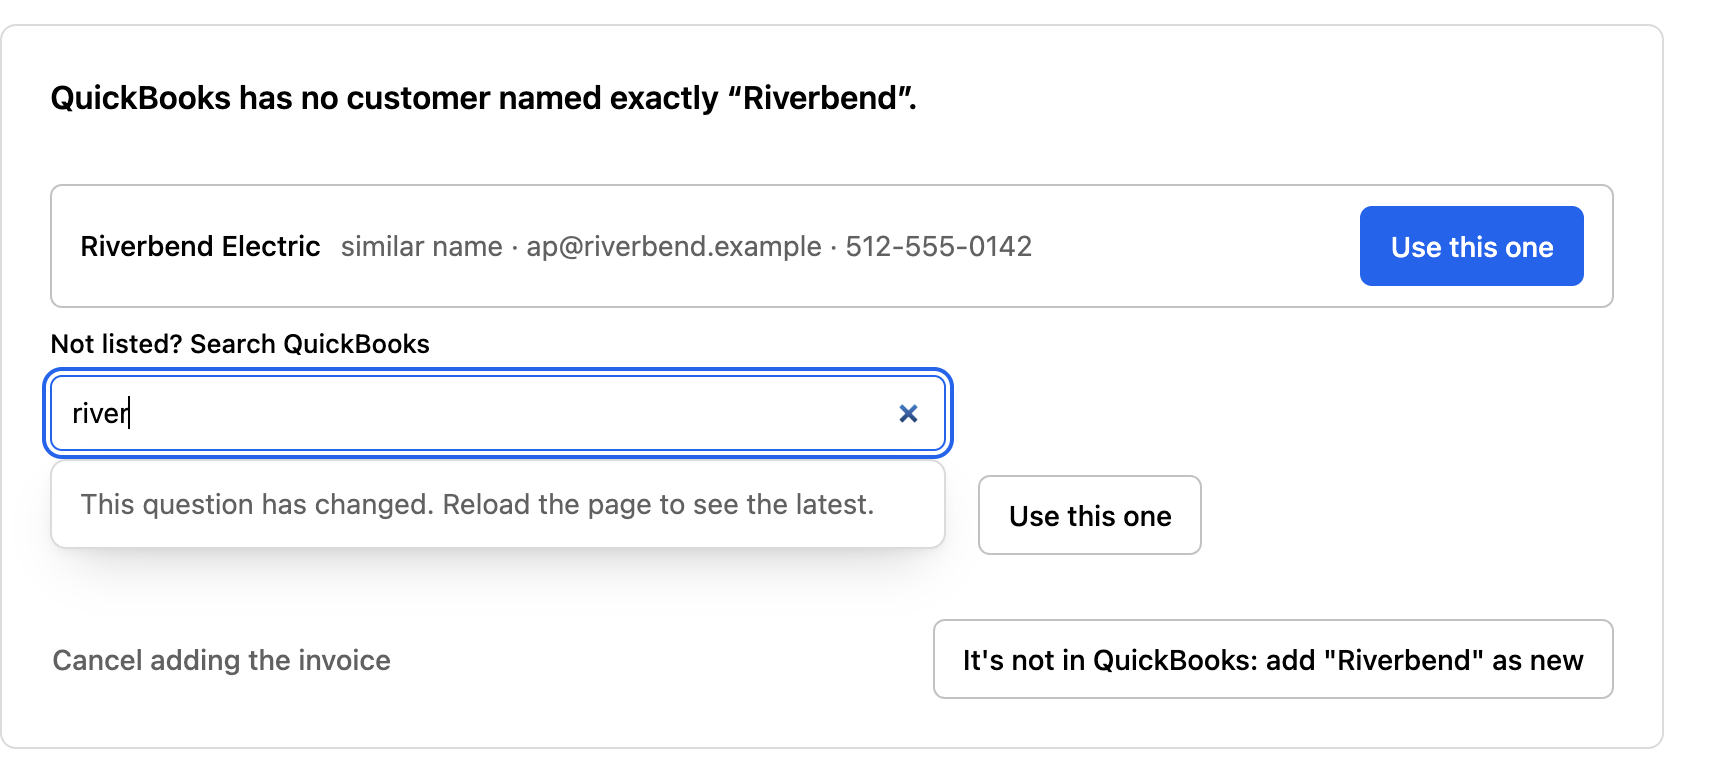
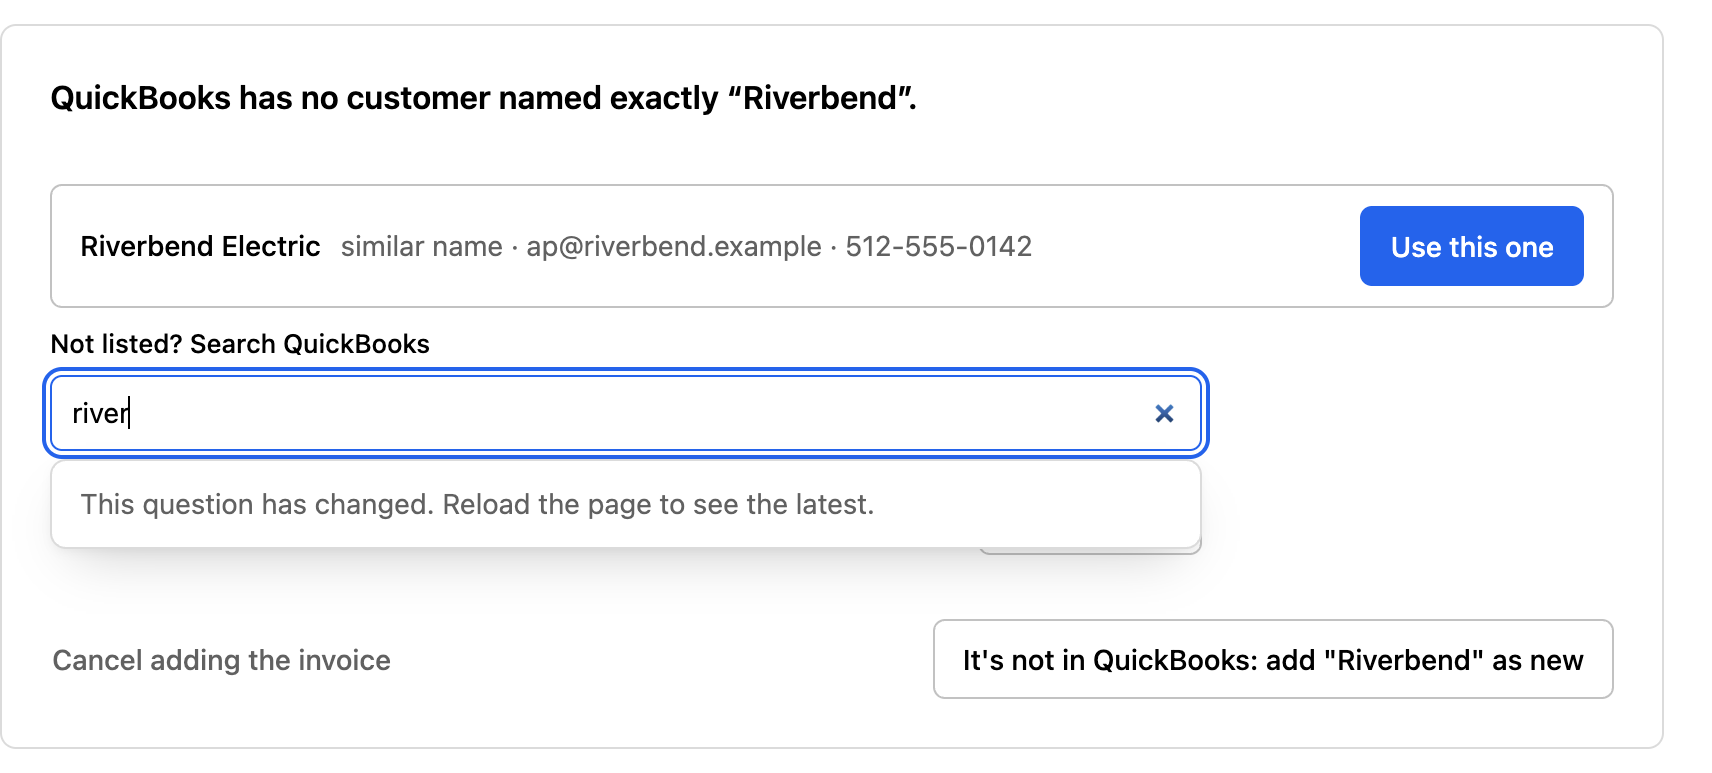
A form choice's fields fill its column, so the submit lines up with them
The rule that lifts the fields' 28rem cap came before the cap (zero specificity,
so it lost); it now comes after. Affected screens retaken.

Changed region(s): [[0.5263, 0.4657, 0.712, 0.621], [0.5572, 0.652, 0.6811, 0.7451]]

diff --git a/app/assets/stylesheets/qube_rails.css b/app/assets/stylesheets/qube_rails.css
@@ -208,10 +208,6 @@
     font-size: 1em;
   }
 
-  :where(.qube-choice-form) :where(.qube-input, .qube-select, .qube-search-input, .qube-search) {
-    max-width: none;
-  }
-
   /* "(optional)" after a label */
   :where(.qube-optional) {
     font-weight: 400;
@@ -475,6 +471,11 @@
   :where(.qube-search) {
     position: relative;
     max-width: 28rem;
+  }
+
+  /* In a form choice they fill its column, so the submit lines up (after the widths above) */
+  :where(.qube-choice-form) :where(.qube-input, .qube-select, .qube-search-input, .qube-search) {
+    max-width: none;
   }
 
   /* A picked match: a check in the box and an accent edge, so its text reads as the selection */

diff --git a/spec/requests/styling_spec.rb b/spec/requests/styling_spec.rb
@@ -99,6 +99,15 @@ RSpec.describe "Styling the screens", type: :request do
     end
   end
 
+  it "lets a form choice's fields fill its column, after the rules that cap their width" do
+    css = File.read(QubeRails::Engine.root.join("app/assets/stylesheets/qube_rails.css")).gsub(%r{/\*.*?\*/}m, "")
+    cap = css.rindex(/max-width: 28rem/)
+    fill = css.index(/:where\(\.qube-choice-form\) :where\(\.qube-input[^{]*\{\s*max-width: none/)
+
+    expect(fill).not_to be_nil
+    expect(fill).to be > cap
+  end
+
   # Every rule has zero specificity, so a later rule wins: the ones that hide the open search's
   # "or search QuickBooks…" and the no-script Cancel must come after the buttons' display.
   it "hides the open search's summary and the no-script Cancel after the button rules that show them" do
